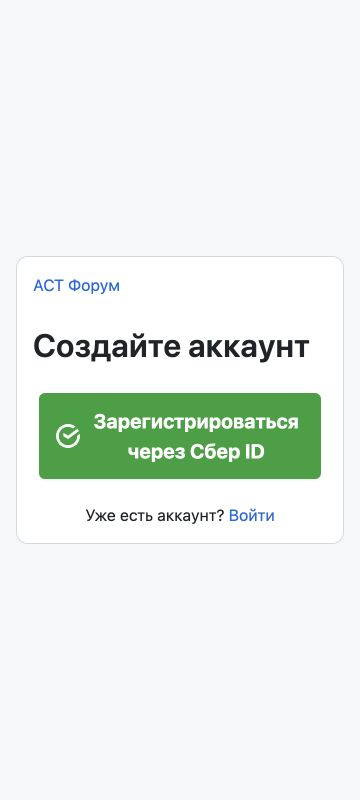
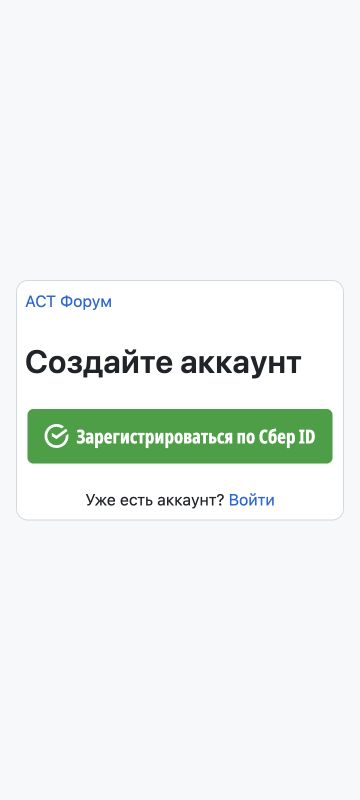
PROJ-31: reduce font and fit registration text on one line

Changed region(s): [[0.0611, 0.3438, 0.9472, 0.6562]]

diff --git a/deployment/public-auth/src/PublicAuth.tsx b/deployment/public-auth/src/PublicAuth.tsx
@@ -40,6 +40,9 @@ function ModalHeader({title, dialogLabelId, onClose}: DialogHeaderProps) {
     <IconButton icon={XIcon} aria-label="Закрыть окно" variant="invisible" onClick={() => onClose('close-button')} />
   </Dialog.Header>
 }
+function ModalBody({children}: React.PropsWithChildren) {
+  return <Dialog.Body className="public-auth-modal-body">{children}</Dialog.Body>
+}
 export function PublicAuth({navigate = url => location.assign(url)}: {navigate?: (url: string) => void}) {
   const [view, setView] = useState<View>(() => {const mode = modeFromPath(); return mode ? {mode, modal: false} : null})
   const [error, setError] = useState<string | null>(() => new URLSearchParams(location.search).get('auth_error'))
@@ -129,7 +132,7 @@ export function PublicAuth({navigate = url => location.assign(url)}: {navigate?:
     {session.kind === 'authenticated' ? <Text as="p" role="status">Вы уже вошли в аккаунт</Text> : <>
       <Button variant="primary" size="large" className="public-auth-sber"
         disabled={session.kind !== 'guest' || redirecting || blocked || unavailable} onClick={start}>
-        <span className="public-auth-label-layout"><img src={sberMark} alt="" aria-hidden className="public-auth-mark" /><span className="public-auth-label">{mode === 'register' ? 'Зарегистрироваться через Сбер ID' : 'Войти по Сбер ID'}</span></span>
+        <span className="public-auth-label-layout"><img src={sberMark} alt="" aria-hidden className="public-auth-mark" /><span className="public-auth-label">{mode === 'register' ? 'Зарегистрироваться по Сбер ID' : 'Войти по Сбер ID'}</span></span>
       </Button>
       {session.kind === 'checking' && <Stack direction="horizontal" align="center" gap="normal"><Spinner size="small" /><Text role="status">Проверяем вход…</Text></Stack>}
       {redirecting && <Text role="status">Переходим к Сбер ID…</Text>}
@@ -146,9 +149,9 @@ export function PublicAuth({navigate = url => location.assign(url)}: {navigate?:
       else start()
     }}>Повторить</Button>}
   </Stack>
-  if (view.modal) return <Dialog title={title} renderHeader={ModalHeader} returnFocusRef={returnFocusRef}
-    onClose={() => {setView(null); history.back()}} width="min(560px, calc(100vw - var(--base-size-32)))" position="center">{body}</Dialog>
-  return <main className="public-auth-page"><Stack gap="spacious" padding={{narrow:"normal", regular:"spacious"}} className="public-auth-panel">
+  if (view.modal) return <Dialog title={title} renderHeader={ModalHeader} renderBody={ModalBody} returnFocusRef={returnFocusRef}
+    onClose={() => {setView(null); history.back()}} width="min(560px, max(calc(100vw - var(--base-size-32)), min(320px, 100vw)))" style={{maxWidth:'100vw'}} position="center">{body}</Dialog>
+  return <main className="public-auth-page"><Stack gap="spacious" padding={{narrow:"condensed", regular:"spacious"}} className="public-auth-panel">
     <Link href="/">АСТ Форум</Link><Heading as="h1" variant="large">{title}</Heading>{body}
   </Stack></main>
 }

diff --git a/deployment/public-auth/src/PublicAuth.test.tsx b/deployment/public-auth/src/PublicAuth.test.tsx
@@ -31,7 +31,7 @@ describe('public authentication', () => {
     expect(location.pathname).toBe('/register')
     expect(screen.getByRole('heading', {name:'Создайте аккаунт'})).toBeInTheDocument()
     expect(navigate).not.toHaveBeenCalled()
-    const button=await screen.findByRole('button', {name:'Зарегистрироваться через Сбер ID'})
+    const button=await screen.findByRole('button', {name:'Зарегистрироваться по Сбер ID'})
     await waitFor(() => expect(button).toBeEnabled())
     fireEvent.click(button); fireEvent.click(button)
     expect(navigate).toHaveBeenCalledExactlyOnceWith('/auth/sber-id/start?intent=register&subject=individual')
@@ -45,7 +45,7 @@ describe('public authentication', () => {
     expect(screen.queryByRole('dialog')).not.toBeInTheDocument()
     expect(screen.getByRole('link', {name:'АСТ Форум'})).toHaveAttribute('href','/')
     expect(location.search).toBe('')
-    expect(await screen.findByRole('button', {name:'Зарегистрироваться через Сбер ID'})).toBeEnabled()
+    expect(await screen.findByRole('button', {name:'Зарегистрироваться по Сбер ID'})).toBeEnabled()
   })
   it('shows a retry when the session cannot be verified instead of enabling IAM', async () => {
     history.replaceState(null, '', '/login')
@@ -73,7 +73,7 @@ describe('public authentication', () => {
   it('treats sber unavailability as a disabled provider with manual retry', async () => {
     history.replaceState(null, '', '/register?auth_error=sber_unavailable'); mount()
     expect(await screen.findByText('Регистрация через Сбер ID пока недоступна')).toBeInTheDocument()
-    expect(screen.getByRole('button', {name:'Зарегистрироваться через Сбер ID'})).toBeDisabled()
+    expect(screen.getByRole('button', {name:'Зарегистрироваться по Сбер ID'})).toBeDisabled()
     expect(screen.getByRole('link', {name:'Записаться на демо'})).toHaveAttribute('href', '/#demo')
   })
   it('closes a modal after Back and retains public content', async () => {

diff --git a/deployment/public-auth/src/auth.css b/deployment/public-auth/src/auth.css
@@ -18,6 +18,8 @@
   white-space: normal;
   font-size: var(--sber-button-label-size);
   font-weight: var(--sber-button-label-weight);
+  font-family: var(--sber-button-font-family);
+  font-stretch: extra-condensed;
   line-height: var(--text-title-lineHeight-small);
 }
 .public-auth-mark {width: var(--base-size-24); height: var(--base-size-24); flex-shrink: 0;}
@@ -27,7 +29,15 @@
 .public-auth-page {display: grid; place-items: center; min-height: 100dvh; padding: var(--base-size-16); background: var(--bgColor-muted);}
 .public-auth-panel {box-sizing: border-box; width: min(100%, 560px); background: var(--bgColor-default); border: var(--borderWidth-thin) solid var(--borderColor-default); border-radius: var(--borderRadius-large);}
 
-.public-auth-label {display: block; white-space: normal; overflow-wrap: anywhere;}
+.public-auth-label {display: block; white-space: nowrap;}
 .public-auth-panel {min-width: 0;}
 
-.public-auth-label-layout {display: grid; grid-template-columns: var(--base-size-24) minmax(0, 1fr); align-items: center; gap: var(--base-size-8); inline-size: max-content; max-inline-size: min(20rem, calc(100vw - var(--base-size-96) - var(--base-size-16)));}
+.public-auth-label-layout {display: grid; grid-template-columns: var(--base-size-24) max-content; align-items: center; gap: var(--base-size-8); inline-size: max-content;}
+
+@media (max-width: 30rem) {
+  .public-auth-modal-body {padding-inline: var(--base-size-8);}
+}
+@media (max-width: 21.25rem) {
+  .public-auth-page {padding-inline: 0;}
+  .public-auth-label-layout {gap: var(--base-size-4);}
+}

diff --git a/deployment/public-auth/src/sber-fonts.css b/deployment/public-auth/src/sber-fonts.css
@@ -1,0 +1,21 @@
+/* Self-hosted Noto Sans, a Primer fallback family.
+ * Source: Google Fonts Noto Sans, SIL OFL 1.1.
+ * A real condensed face keeps Cyrillic geometry consistent across platforms. */
+@font-face {
+  font-family: 'Public Auth Noto Sans';
+  font-style: normal;
+  font-weight: 700;
+  font-stretch: 62.5%;
+  font-display: swap;
+  src: url(./fonts/noto-sans-bold-condensed-cyrillic.woff2) format('woff2');
+  unicode-range: U+0301, U+0400-045F, U+0490-0491, U+04B0-04B1, U+2116;
+}
+@font-face {
+  font-family: 'Public Auth Noto Sans';
+  font-style: normal;
+  font-weight: 700;
+  font-stretch: 62.5%;
+  font-display: swap;
+  src: url(./fonts/noto-sans-bold-condensed-latin.woff2) format('woff2');
+  unicode-range: U+0000-00FF, U+0131, U+0152-0153, U+02BB-02BC, U+02C6, U+02DA, U+02DC, U+0304, U+0308, U+0329, U+2000-206F, U+20AC, U+2122, U+2191, U+2193, U+2212, U+2215, U+FEFF, U+FFFD;
+}

diff --git a/deployment/public-auth/src/sber-tokens.css b/deployment/public-auth/src/sber-tokens.css
@@ -1,12 +1,13 @@
 /* Sber provider tokens, not Forum brand mappings.
  * Official source: https://developers.sber.ru/docs/ru/sberid/guidebook
  * Rest/hover colors verified from official button state diagrams.
- * 20px bold label keeps white text over official green at the large-text contrast
+ * 19px bold label keeps white text over official green at the large-text contrast
  * threshold. The guide permits the service's typography and flexible geometry. */
 :root {
   --sber-button-rest: #21a038;
   --sber-button-hover: #1e9032;
   --sber-button-label: #fff;
-  --sber-button-label-size: 1.25rem;
+  --sber-button-label-size: 1.1875rem;
   --sber-button-label-weight: 700;
+  --sber-button-font-family: 'Public Auth Noto Sans', var(--fontStack-sansSerif);
 }

diff --git a/deployment/public-auth/src/main.tsx b/deployment/public-auth/src/main.tsx
@@ -11,6 +11,7 @@ import '@primer/primitives/dist/css/functional/typography/typography.css'
 import '@primer/primitives/dist/css/functional/motion/motion.css'
 import '@primer/primitives/dist/css/functional/themes/light.css'
 import './sber-tokens.css'
+import './sber-fonts.css'
 import './auth.css'
 import {PublicAuth} from './PublicAuth'
 let root = document.getElementById('public-auth-root')

diff --git a/deployment/public-auth/evidence/verification.md b/deployment/public-auth/evidence/verification.md
@@ -5,7 +5,7 @@
 - TypeScript, ESLint, build: passed.
 - Vitest: 17/17. Session 401/valid 200/malformed/403/500/timeout; modal/direct page; safe query removal; login/register switching; request contract and one-click guard; session retry and provider retry; callback cancellation; blocked accounts; unavailable provider; page fragments remain anchors.
 - Python deploy: 5/5. Every public HTML receives shared script/styles; /login and /register use same built page; existing content/other files preserved; repeated inclusion idempotent; failure restores own changes; malformed HTML refused; concurrent publisher preserved.
-- Primer validator with **/sber-tokens.css approved vendor source: 0 errors, 4 PDS007 warnings for Primer gap props and CSS line-height alias. No other UI dependency; ThemeProvider/BaseStyles/Primitives Light. Forum mappings not introduced; neutral roles remain Primer Light.
+- Primer validator with **/sber-tokens.css approved vendor source: 0 errors, 5 PDS007 warnings for Primer gap props and CSS line-height alias. No other UI dependency; ThemeProvider/BaseStyles/Primitives Light. Forum mappings not introduced; neutral roles remain Primer Light.
 - Official Sber sign and rest/hover colors checked from current developers.sber.ru guide. White over #21A038 contrast 3.4146:1; font 20px, weight 700 meets large-text threshold. Exact requested registration copy retained despite different recommended preposition in vendor guide.
 - In-app browser: local fixture: modal login/register over the page; Tab stays inside, Escape restores /evidence/preview.html and focus to «Войти»; #demo stays a fragment; local /login and /register; switching and refresh; 360px regression reproduced (overflow), fixed using own Button content composition, no Primer internal selector overrides. After fix document scrollWidth == innerWidth == 360 and the full provider label is visible.
 
@@ -20,3 +20,5 @@ PR #13 создан в правильном репозитории mcvvvnukova-b
 Снимки: login-desktop.jpg, register-tablet.jpg, register-mobile.jpg. На 768 px panel x104..664, width560, scrollWidth768; на 360 px scrollWidth360. Клавиатура: Tab с крестика на provider внутри dialog; Escape закрывает и возвращает focus «Войти». VoiceOver не запускался.
 
 Уточнение владельца: кнопка стала компактнее и центрируется, ссылка «Вернуться на сайт» удалена. В IAB на 1280 px кнопка входа 233.38 px, регистрации 354 px; на мобильном 360 px кнопка регистрации 282 px, scrollWidth360, полный текст виден. Обновлены снимки; 17 frontend + 5 deployment tests, lint, typecheck/build прошли повторно. Повторное подключение SSH также завершилось timeout до каких-либо изменений на сервере.
+
+Последнее уточнение владельца: шрифт 19px/700, текст «Зарегистрироваться по Сбер ID» одной строкой. Самостоятельная страница и модальное окно проверены при 320/360/768/1280 px после document.fonts.ready: lineCount1, labelInsideButton true, buttonInsideViewport true, scrollWidth == viewport. Точные измерения в button-layout.json. Кнопка 301.08 px при 320, 305.08 px при остальных ширинах; полный текст 239.08 px. Компактный Noto Sans из fallback-стека Primer загружается локально (Cyrillic+Latin, 21.2kB), источник и SHA256 в src/fonts/SOURCE.md, OFL сохранён. Оформление адаптировано через публичные Stack padding / Dialog renderBody / style API; собственные классы, без селекторов внутренней разметки Primer. Escape возвращает фокус на исходную ссылку. Повторно прошли 17 frontend + 5 deployment tests, lint, typecheck/build. Primer: 0 errors, 5 предупреждений для component gap/line-height и layout breakpoints. SSH повторно timeout, публикация не состоялась.

diff --git a/deployment/public-auth/README.md b/deployment/public-auth/README.md
@@ -8,7 +8,9 @@
 
 Уточнение владельца от 02.10.2026: кнопка Сбер ID компактна, центрируется и ограничена шириной содержимого; отдельная ссылка «Вернуться на сайт» удалена из общей формы. На самостоятельной странице остаётся ссылка бренда «АСТ Форум».
 
-Кнопки используют только Primer React / Primitives Light / Octicons. Поверхности и фокус — Primer Light без новых Forum mappings. Специальные vendor-токены Сбера из [официального руководства](https://developers.sber.ru/docs/ru/sberid/guidebook) вынесены в `src/sber-tokens.css`: зелёный rest #21A038, hover #1E9032, белый официальный знак Сбера. Жирная подпись 20px обеспечивает необходимый контраст для large text. Прямое требование документа «Зарегистрироваться через Сбер ID» сохранено; руководство рекомендует «Зарегистрироваться со Сбер ID». Правила написания пользовательского документа имеют приоритет.
+Кнопки используют только Primer React / Primitives Light / Octicons. Поверхности и фокус — Primer Light без новых Forum mappings. Специальные vendor-токены Сбера из [официального руководства](https://developers.sber.ru/docs/ru/sberid/guidebook) вынесены в `src/sber-tokens.css`: зелёный rest #21A038, hover #1E9032, белый официальный знак Сбера. Жирная подпись 19px обеспечивает необходимый контраст для large text. Последнее уточнение владельца заменяет текст регистрации на «Зарегистрироваться по Сбер ID» и требует одну строку. Исходная копия Outline сохранена без изменений; руководство Сбера рекомендует «Зарегистрироваться со Сбер ID».
+
+Для стабильной однострочной геометрии кнопки используется компактное начертание Noto Sans, одной из гарнитур fallback-стека Primer. Локальные Cyrillic/Latin WOFF2 загружены из официального Google Fonts, 21.2 kB суммарно; лицензия SIL OFL 1.1 в `src/fonts/OFL.txt`. Гарнитура ограничена кнопкой Сбер ID, размеры 19px/700/62.5%; шрифт остальных элементов не меняется. `Dialog.Body` на узком экране задаётся через публичный renderBody API; в 320px диалог занимает всю доступную ширину, чтобы сохранить текст и управление без горизонтальной прокрутки.
 
 ```sh
 npm ci

diff --git a/docs/superpowers/specs/2026-10-02-public-auth-design.md b/docs/superpowers/specs/2026-10-02-public-auth-design.md
@@ -2,7 +2,7 @@
 
 Основание: текущая редакция PUB.02.02 в Outline, updatedAt 2026-10-02T14:29:50.285Z; прочитана API под Кузьмина. Прямое поручение реализовать документ рассматривается как принятие дизайна. Старая локальная спецификация с типами участников и контекстом перехода не применяется.
 
-Общий React-компонент Primer Light: login «Войти в аккаунт» / «Войти по Сбер ID» / «Нет аккаунта? Зарегистрироваться»; register «Создайте аккаунт» / «Зарегистрироваться через Сбер ID» / «Уже есть аккаунт? Войти». Только существующий IAM Сбер ID; intent=login либо intent=register&subject=individual. Поля цели, returnTo и персональные данные не передаются и не сохраняются.
+Общий React-компонент Primer Light: login «Войти в аккаунт» / «Войти по Сбер ID» / «Нет аккаунта? Зарегистрироваться»; register «Создайте аккаунт» / «Зарегистрироваться по Сбер ID» / «Уже есть аккаунт? Войти». Последнее прямое уточнение владельца заменяет исходную подпись Outline и требует одну строку; шрифт 19px bold, компактная гарнитура Noto Sans из fallback-стека Primer. Только существующий IAM Сбер ID; intent=login либо intent=register&subject=individual. Поля цели, returnTo и персональные данные не передаются и не сохраняются.
 
 Публичные страницы сейчас выпускаются независимыми пакетами в незавершённых ветках. Изолированный пакет deployment/public-auth загружается одинаковыми script/link на всех существующих HTML публичной части. Адаптер нормализует существующие ссылки входа/регистрации; capture-handler открывает Primer Dialog поверх страницы. Режим отражается в /login либо /register; обновление открывает тот же компонент самостоятельно. Переключение режима заменяет запись истории. Закрытие крестиком, Escape, фоном возвращает страницу, прокрутку и фокус. Прямая страница имеет возврат на главную. Старый resume script не включается на новых страницах авторизации; перед запуском IAM удаляется его устаревшее намерение.
 

diff --git a/deployment/public-auth/src/fonts/SOURCE.md b/deployment/public-auth/src/fonts/SOURCE.md
@@ -1,0 +1,10 @@
+# Noto Sans button font source
+
+Unmodified official Google Fonts files; SIL OFL 1.1. Only this button uses the condensed face.
+
+CSS request: https://fonts.googleapis.com/css2?family=Noto+Sans:wdth,wght@62.5,700&display=swap
+
+- noto-sans-bold-condensed-cyrillic.woff2: https://fonts.gstatic.com/s/notosans/v42/o-0mIpQlx3QUlC5A4PNB6Ryti20_6n1iPMrcz6L1SoM-jCpoiyAaBO9e6VLYyWtZ3rKW9w.woff2
+  SHA256: b1adf3b1e17c27bf913162d5bc692ff3d88127964ea2630d0dba92128e0e3eb3
+- noto-sans-bold-condensed-latin.woff2: https://fonts.gstatic.com/s/notosans/v42/o-0mIpQlx3QUlC5A4PNB6Ryti20_6n1iPMrcz6L1SoM-jCpoiyAaBO9a6VLYyWtZ3rI.woff2
+  SHA256: 40259f7bd493c4afa77e658aa26222bc41c62a97d781f87cb2afeca79a9c5082
